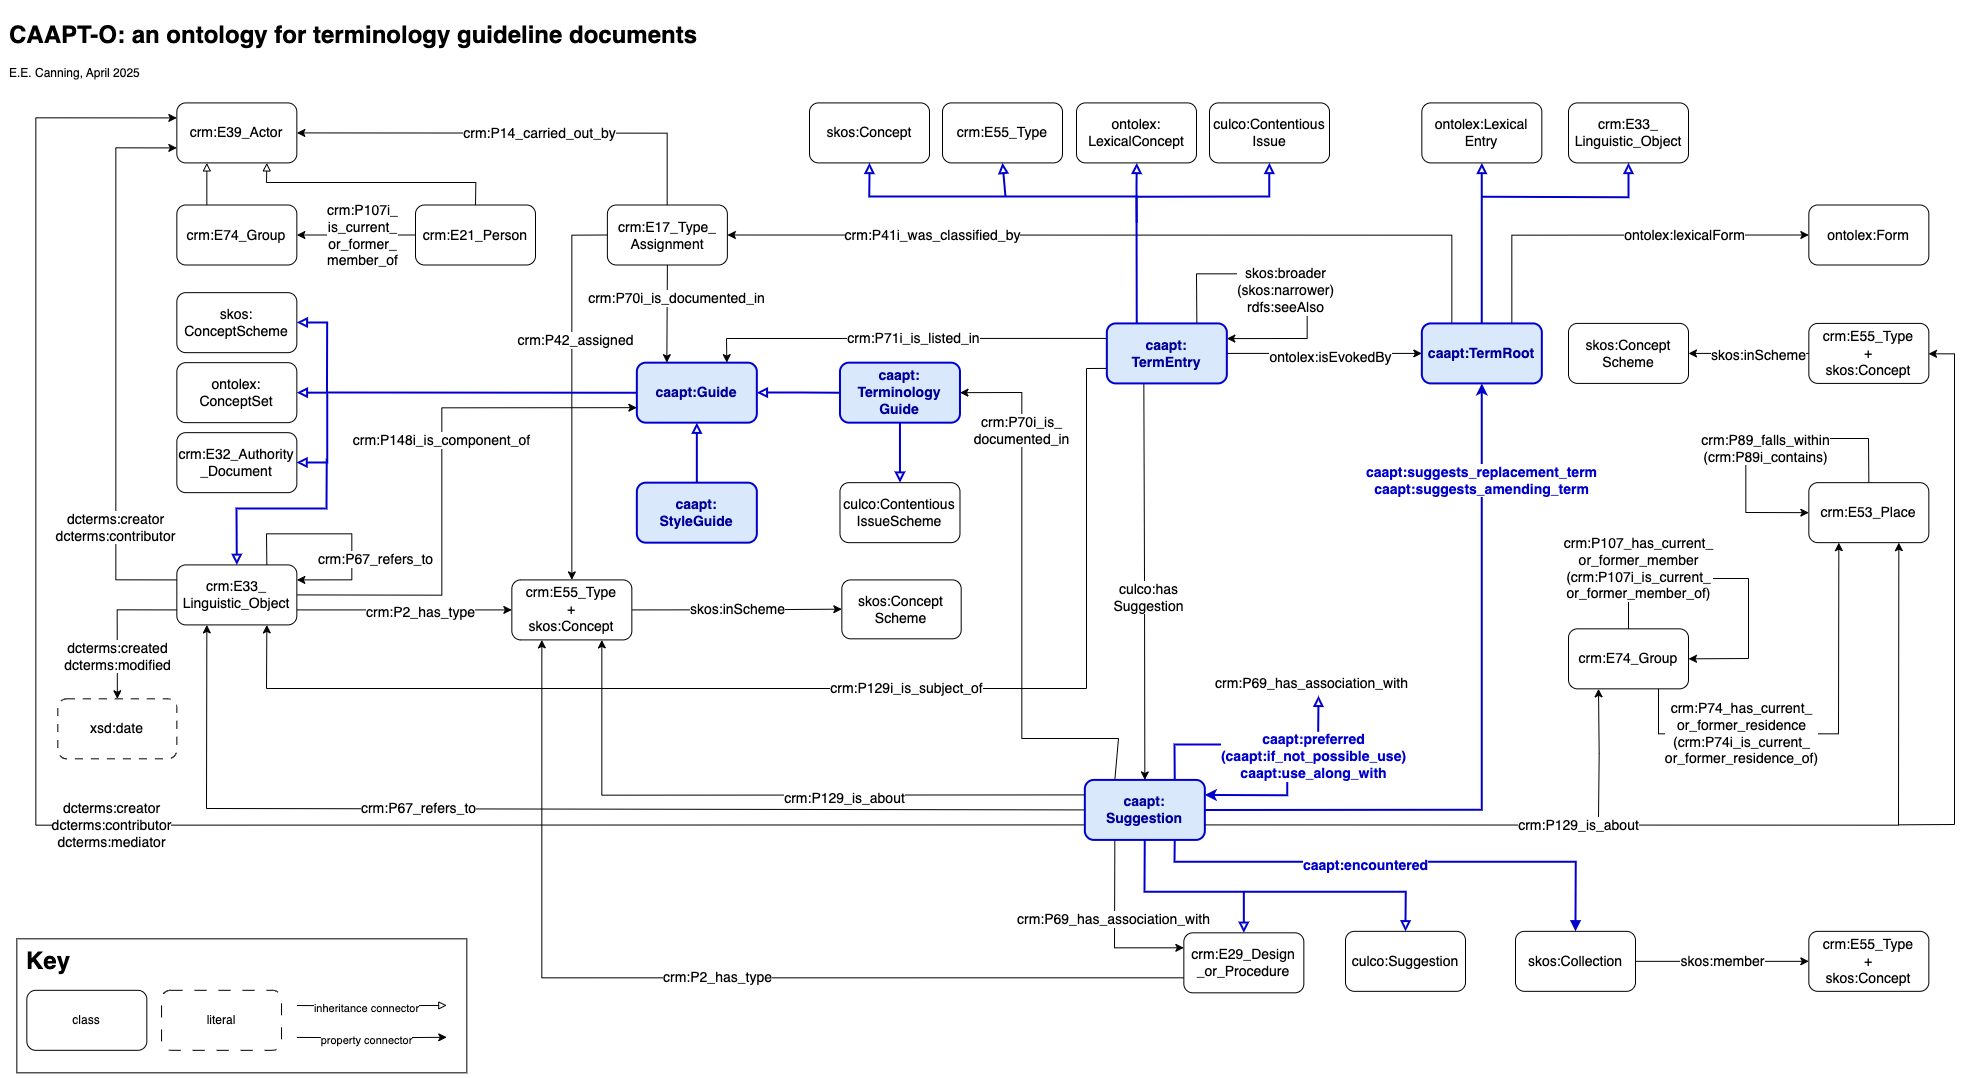
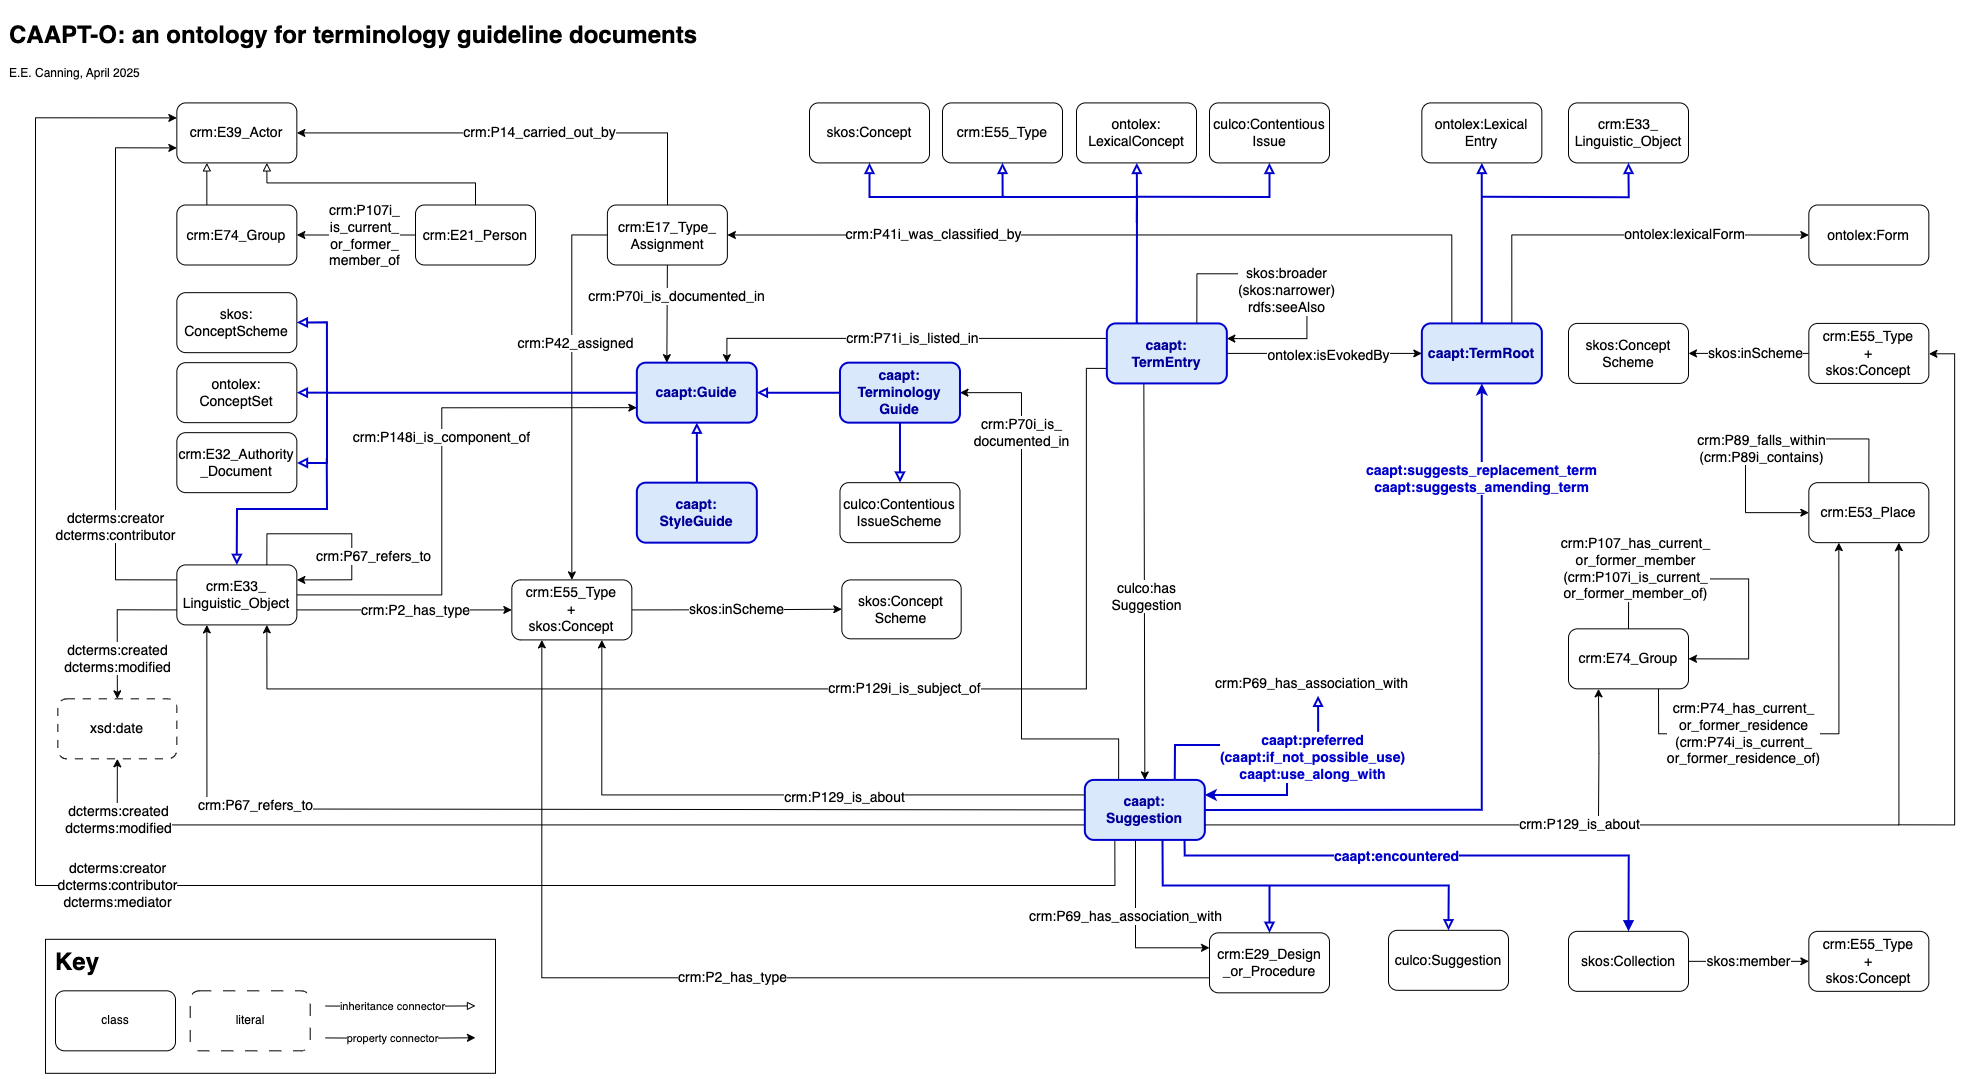
update dcterms

diff --git a/docs/ontology.html b/docs/ontology.html
@@ -395,7 +395,11 @@ This section provides details for each class and property defined by CAAPT-O.
       <dl class="description">
          <dt>is included in domain of</dt>
          <dd>
+            <a href="https://purl.org/dc/terms/creator" title="https://purl.org/dc/terms/creator">dcterms:creator</a><sup class="type-op" title="object property"></sup>,
+            <a href="https://purl.org/dc/terms/contributor" title="https://purl.org/dc/terms/contributor">dcterms:contributor</a><sup class="type-op" title="object property"></sup>,
             <a href="https://purl.org/dc/terms/mediator" title="https://purl.org/dc/terms/mediator">dcterms:mediator</a><sup class="type-op" title="object property"></sup>,
+            <a href="https://purl.org/dc/terms/created" title="https://purl.org/dc/terms/created">dcterms:created</a><sup class="type-op" title="object property"></sup>,
+            <a href="https://purl.org/dc/terms/modified" title="https://purl.org/dc/terms/modified">dcterms:modified</a><sup class="type-op" title="object property"></sup>,
             <a href="https://www.cidoc-crm.org/cidoc-crm/P2_has_type" target="_blank" title="https://www.cidoc-crm.org/cidoc-crm/P2_has_type">crm:P2_has_type</a><sup class="type-op" title="object property"></sup>,
             <a href="https://www.cidoc-crm.org/cidoc-crm/P33_used_specific_technique" target="_blank" title="https://www.cidoc-crm.org/cidoc-crm/P33_used_specific_technique">crm:P33_used_specific_technique</a><sup class="type-op" title="object property"></sup>,
             <a href="https://www.cidoc-crm.org/cidoc-crm/P67_refers_to" target="_blank" title="https://www.cidoc-crm.org/cidoc-crm/P67_refers_to">crm:P67_refers_to</a><sup class="type-op" title="object property"></sup>,
